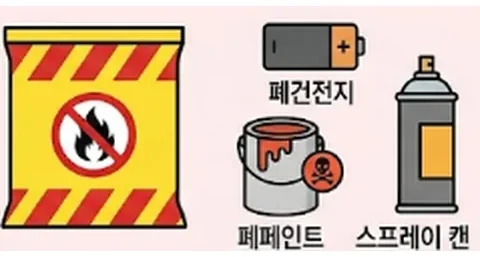
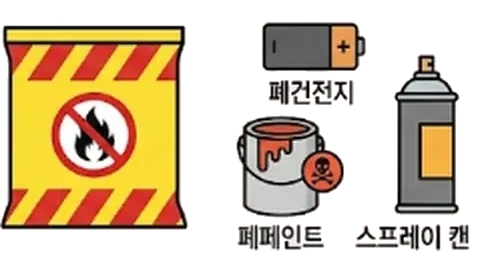
style: 소개의 흰 판을 걷어 내고 뒤 그림이 비치게
분류 그림 넉 장이 흰 판 위에 놓여 있어서 소개 그림이 그 자리에서 통째로
가려졌다. 판을 걷어 냈다. 그런데 그림 넉 장 자체가 흰 바탕의 불투명한
그림이라, 판만 지우면 흰 네모 넉 장이 대신 남는다. 선화라 외곽선이 있어
배경만 빼냈다(테두리에서 번지게 하되, 특수는 바탕이 분홍이라 흰 여백을
벗겨 낸 뒤 한 번 더 번지게 했다).

덮개도 함께 걷었다. 아래쪽을 아예 불투명하게 덮고 있었는데, 그건 분류 상자를
깨끗한 바탕에 올리려던 것이라 판이 사라진 지금은 쓸 데가 없다.
88%에서 끊기던 것을 46%까지만 얹는다.

그림 자체도 55% → 70%로 올렸다.

캡션 색을 보조색에서 본문색으로 바꿨다. 뒤에 그림이 비치면서 보조색은 최악의
자리에서 2.66:1까지 떨어진다. 본문색이면 같은 자리에서 5.3:1이다.

diff --git a/src/styles/identity.css b/src/styles/identity.css
@@ -400,20 +400,21 @@ main {
   text-wrap: pretty;
 }
 
+/**
+ * 판을 두르지 않는다. 흰 판이 뒤의 그림을 통째로 가리고 있었다.
+ * 그림 넉 장도 배경을 빼 두어 소개 그림이 그대로 비친다.
+ */
 .masthead__legend {
-  /* 소개의 가운데 자리라 여백을 1.2배 키웠다. */
   padding: calc(var(--space-6) * 1.2) calc(var(--space-5) * 1.2);
-  background: var(--paper);
-  border: var(--border-hair);
-  border-radius: var(--radius-card);
 }
 
+/* 뒤에 그림이 비쳐서 보조색은 2.66:1까지 떨어진다. 본문색이면 같은 자리에서 5.3:1이다. */
 .masthead__legend-caption {
   margin: 0 0 var(--space-6);
   font-size: var(--text-label);
   font-weight: 700;
   letter-spacing: var(--tracking-label);
-  color: var(--ink-muted);
+  color: var(--ink);
 }
 
 /**
@@ -780,15 +781,16 @@ button,
   background-image: var(--intro-cover, none);
   background-size: cover;
   background-position: center;
-  opacity: 0.55;
+  opacity: 0.7;
 }
 
 /**
  * 글자 뒤만 덮개를 씌운다.
  *
  * 그림을 진하게 하면 대비가 떨어지므로, 위쪽(이름과 제목이 있는 자리)은 배경색을
- * 두껍게 얹고 가운데는 얇게 둬서 그림이 드러나게 한다. 아래는 완전히 걷어 내
- * 분류 카드가 깨끗한 바탕 위에 놓이게 한다.
+ * 두껍게 얹고 아래로 갈수록 얇게 둔다. 전에는 아래를 아예 불투명하게 덮어
+ * 분류 상자를 깨끗한 바탕에 올렸는데, 그 판을 걷어 냈으니 덮개도 함께 걷었다.
+ * 가장 어두운 픽셀이 그대로 비쳐도 본문 대비 5.3:1이다.
  */
 .masthead::after {
   content: '';
@@ -799,8 +801,8 @@ button,
     to bottom,
     rgb(244 250 246 / 82%) 0%,
     rgb(244 250 246 / 52%) 34%,
-    rgb(244 250 246 / 70%) 62%,
-    var(--film) 88%
+    rgb(244 250 246 / 50%) 62%,
+    rgb(244 250 246 / 46%) 100%
   );
 }
 
